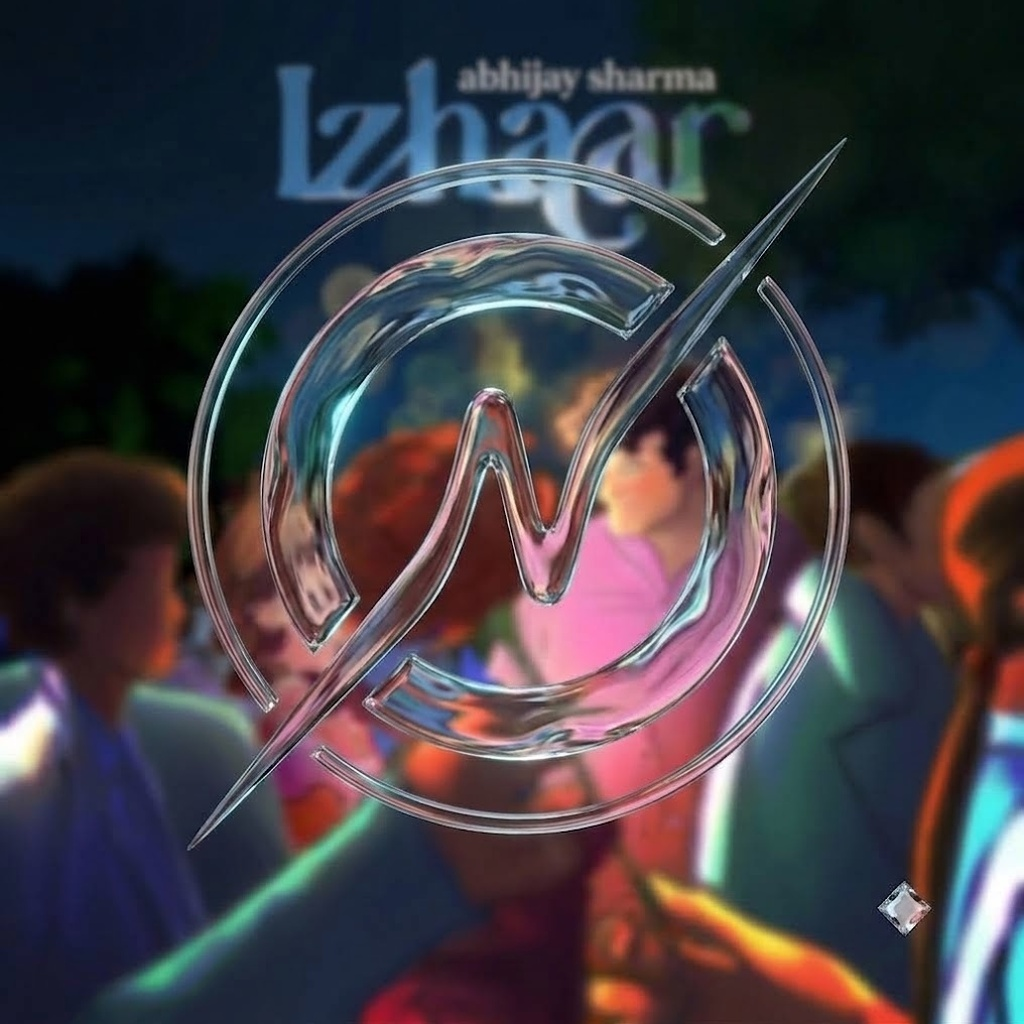
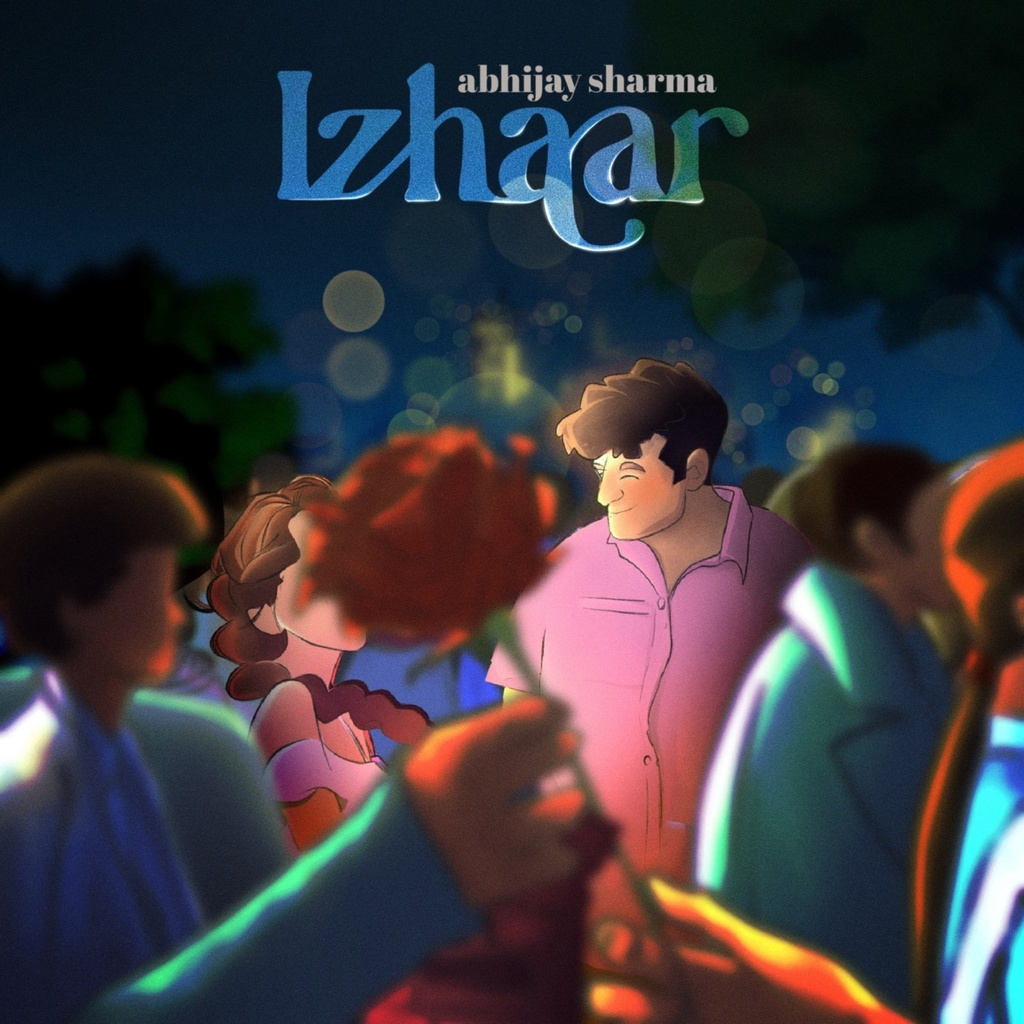
feat(ui): use clean original Izhaar artwork for default player poster without watermark

diff --git a/index.html b/index.html
@@ -716,8 +716,8 @@
         <div id="left-panel">
             <div id="cover-wrapper">
                 <div id="cover-art-container">
-                    <img src="default_cover.jpg?v=2" id="default-cover-icon" alt="Default Cover" style="width: 100%; height: 100%; object-fit: cover; position: absolute; z-index: 1;">
-                    <img id="cover-art" src="" alt="Album Cover" onerror="this.onerror=null; this.src='default_cover.jpg?v=2';">
+                    <img src="default_cover.jpg?v=3" id="default-cover-icon" alt="Default Cover" style="width: 100%; height: 100%; object-fit: cover; position: absolute; z-index: 1;">
+                    <img id="cover-art" src="" alt="Album Cover" onerror="this.onerror=null; this.src='default_cover.jpg?v=3';">
                     <!-- 3-dot overlay on cover in full-screen player -->
                     <div id="cover-options-overlay">
                         <button id="cover-options-btn" onclick="openSongContextMenuFromPlayer(event)" title="More options">
@@ -1455,7 +1455,7 @@
 
     <!-- Mini Player Pill -->
     <div id="mini-player" class="hidden-mini">
-        <img id="mini-cover" src="default_cover.jpg?v=2" alt="Mini Cover" onerror="this.onerror=null; this.src='default_cover.jpg?v=2';">
+        <img id="mini-cover" src="default_cover.jpg?v=3" alt="Mini Cover" onerror="this.onerror=null; this.src='default_cover.jpg?v=3';">
         <div id="mini-info">
             <div id="mini-title">AxioTune</div>
             <div id="mini-artist">Ready to stream</div>
